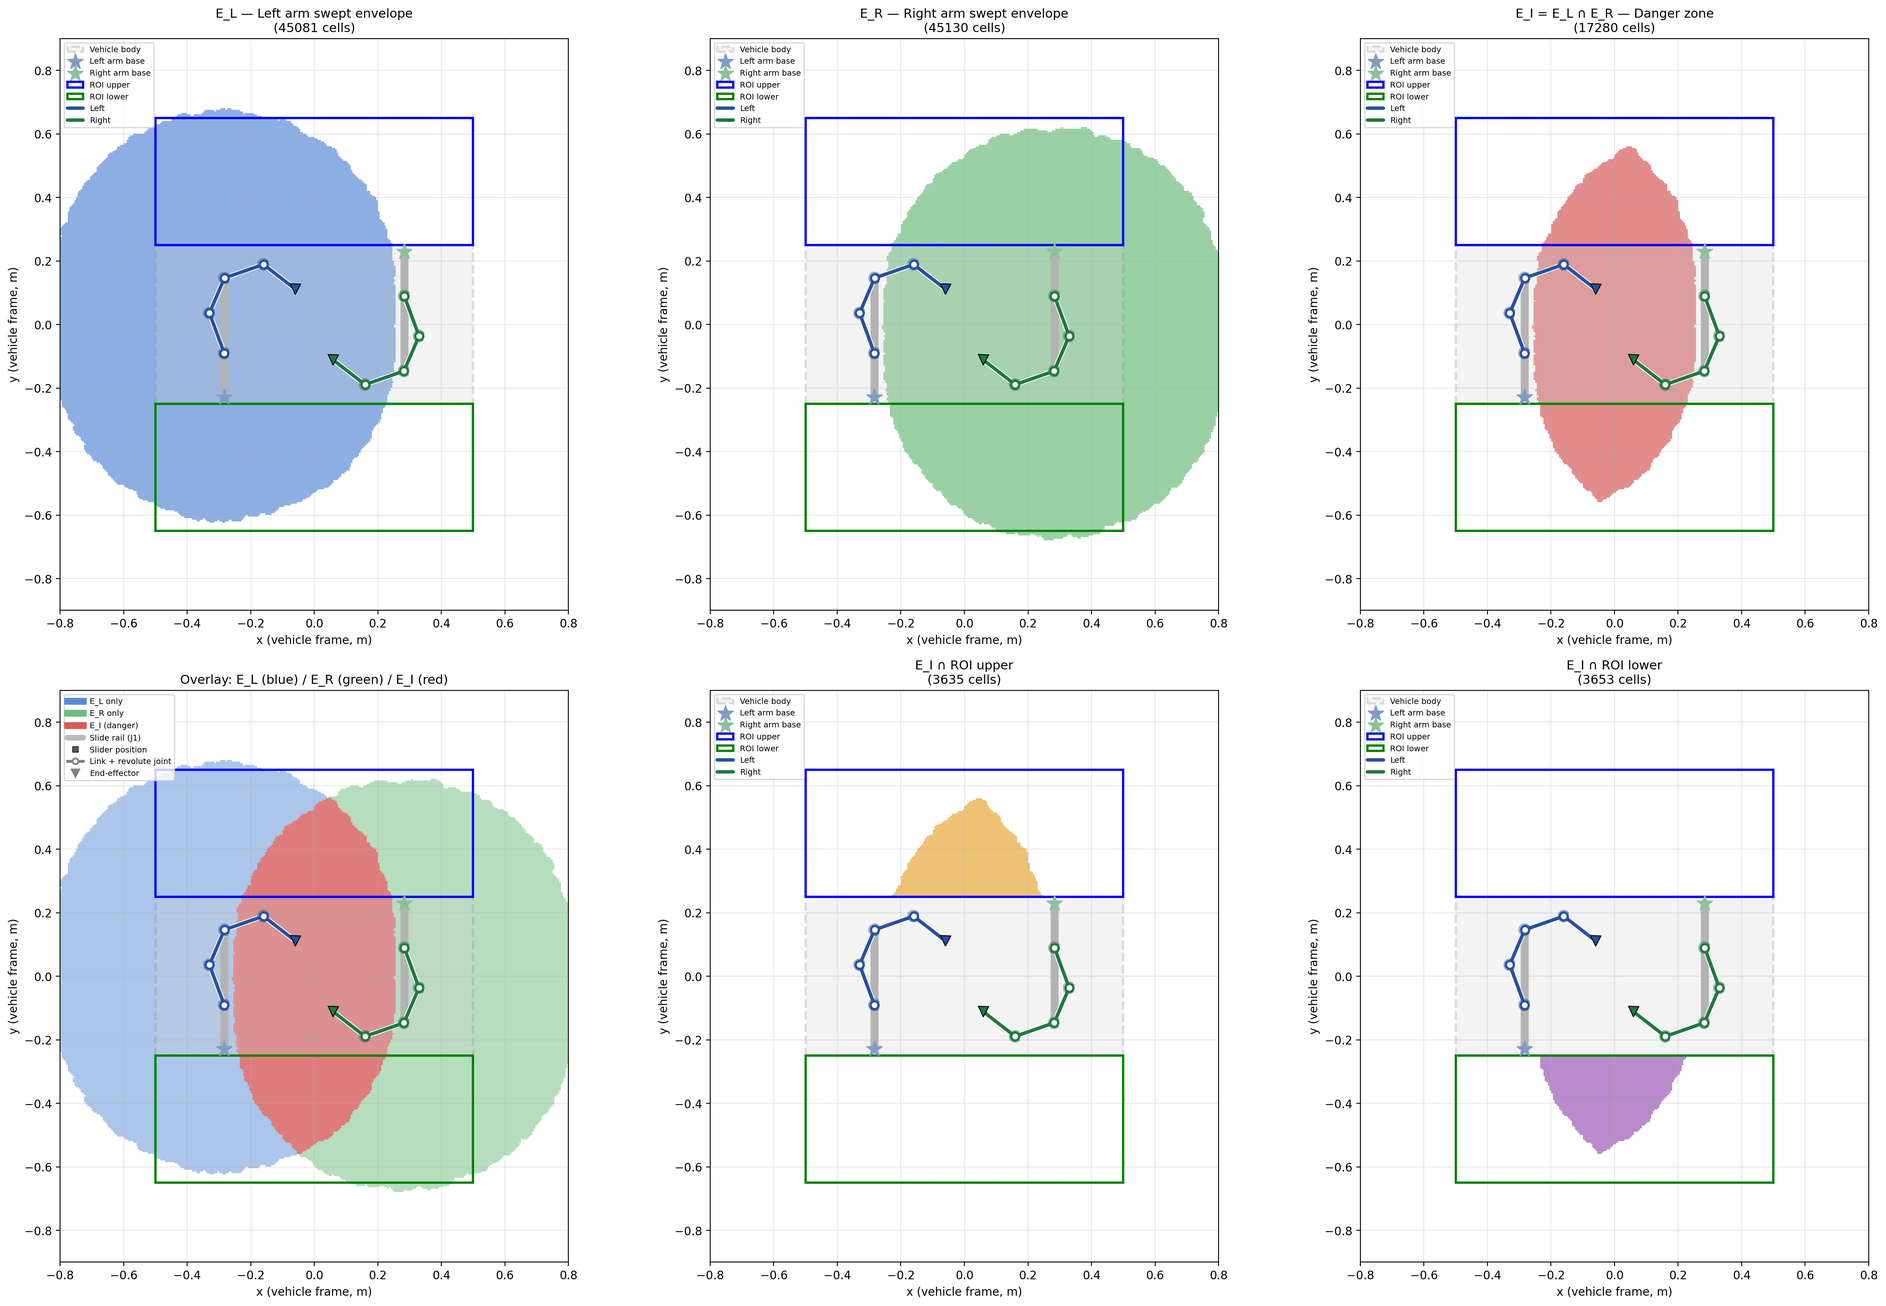
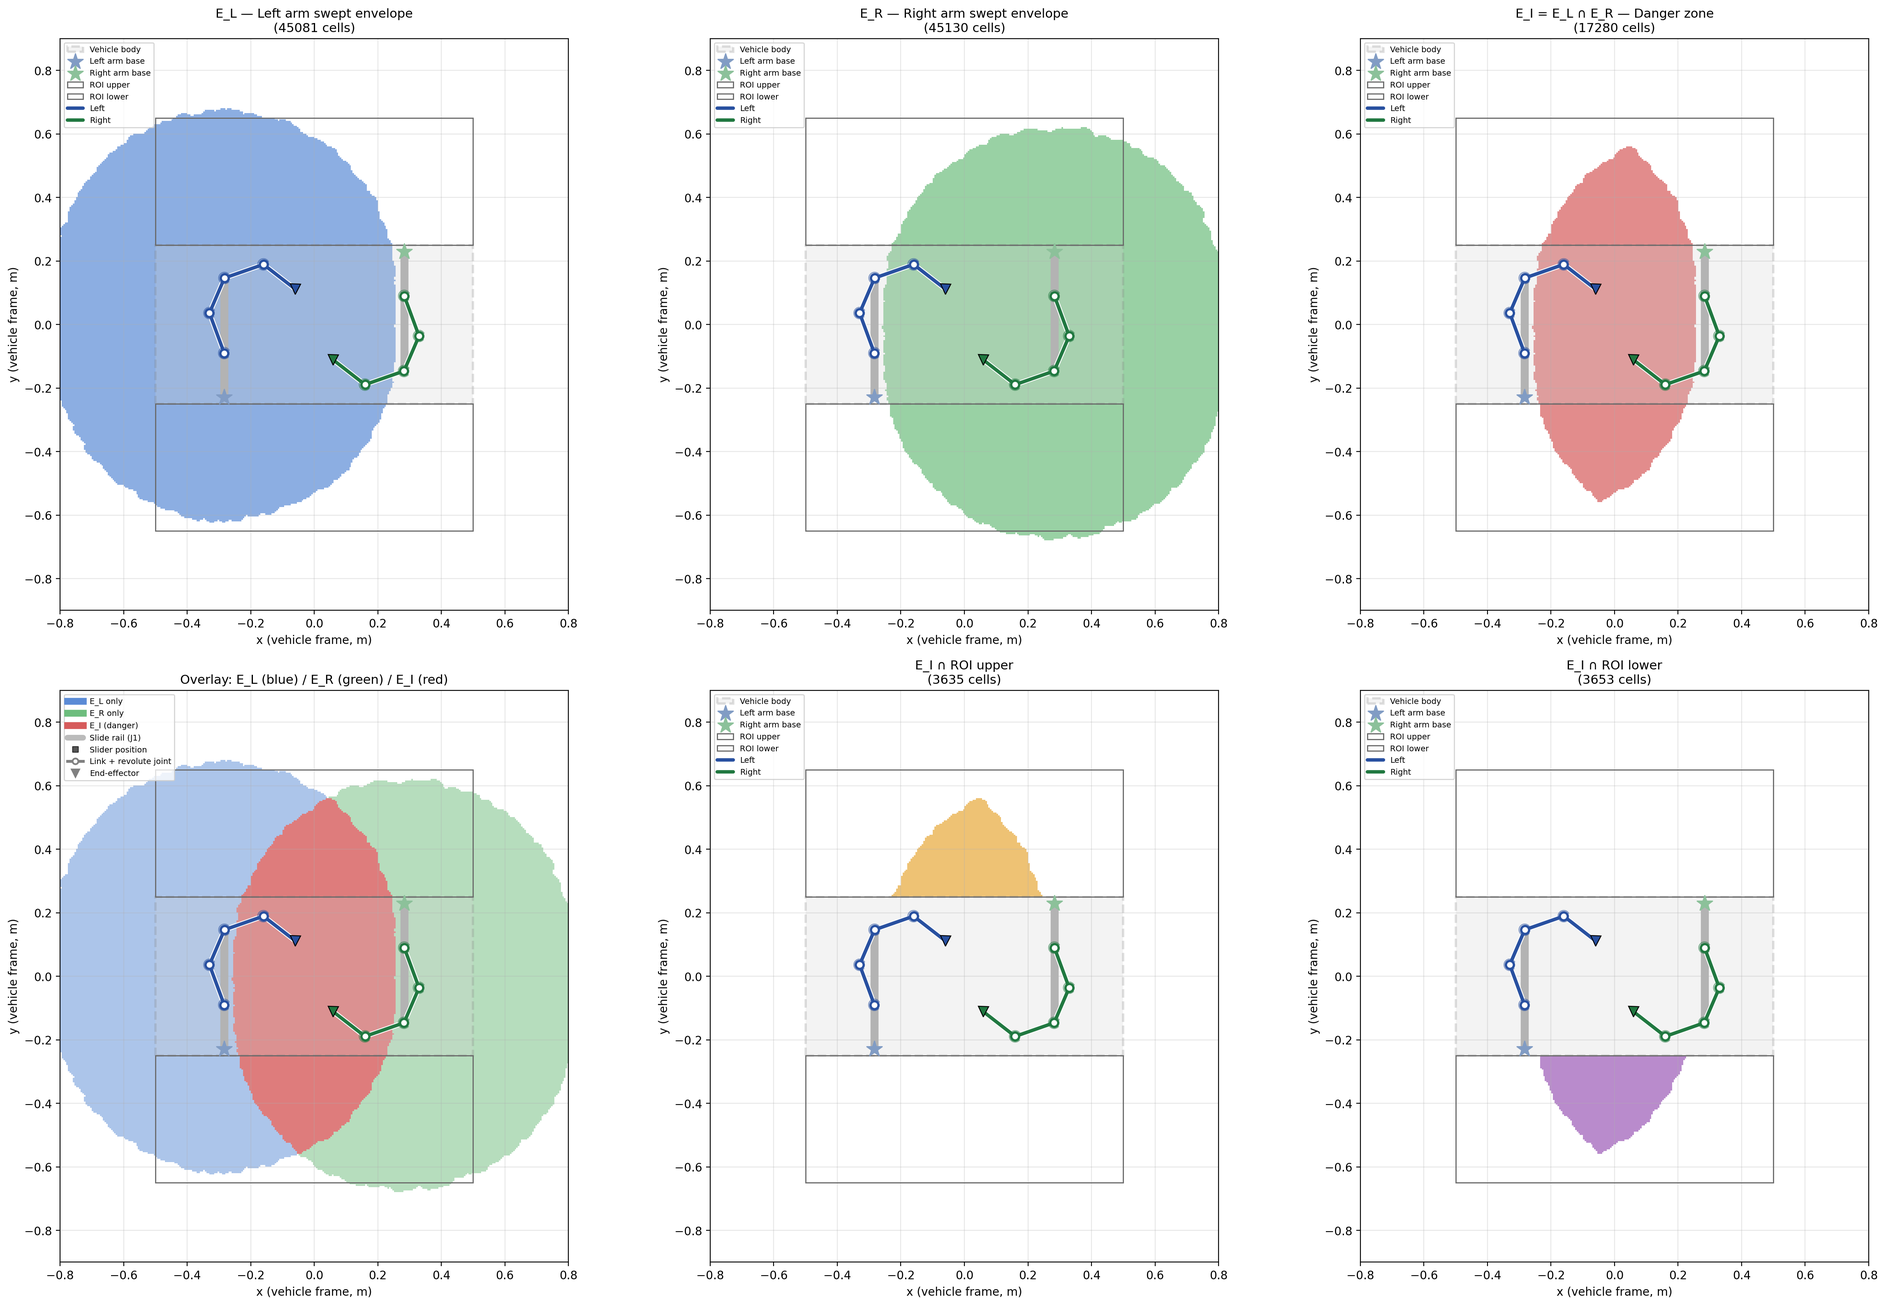
标注IK解数量

diff --git a/roi/build_roi_table_selected_points_cover_first.py b/roi/build_roi_table_selected_points_cover_first.py
@@ -1,28 +1,13 @@
 #!/usr/bin/env python3
 """
-build_roi_table_selected_points_cover_first.py
+build_roi_table_selected_points_cover_first_v2.py
 
-覆盖优先版本：
-1) 固定点集：
-   y = ±0.3, ±0.4, ±0.5
-   x = 0, ±0.1, ±0.2, ±0.3, ±0.4
-   z = 0.56
-
-2) 搜索策略：
-   - 先广覆盖 yaw（均匀覆盖整圈），避免只在局部附近打转
-   - 先广覆盖 seed（home / 手工极端 seed / 关节上下限全局随机 seed）
-   - 仅在已经找到成功 yaw 后，才对其附近做局部加密（可选）
-
-3) safe 优先规则：
-   - 若点本身落在对应 danger mask 中，则跳过 safe 搜索，直接走 fallback
-   - 若点本身不在对应 danger mask 中，则优先保留“终点全身姿态通过 safe 检查”的 IK 解
-   - 若一个 safe 终点也找不到，则再保留 fallback IK 解
-
-4) 输出：
-   - roi/results/roi_table_selected_points.pkl
-   - roi/results/selected_points_reachability.png
-
-不再生成 dual_arm_cost_selected_points.pkl
+在 cover_first 版本基础上新增：
+1) 若 roi/results/roi_table_selected_points.pkl 已存在，则默认不重复求解，直接读取并重画图
+2) 图中标注每个点左右臂的 safe/fallback 解数量：
+   - 左臂: L s/f
+   - 右臂: R s/f
+3) 保留 --force-regenerate，可强制重新求解
 """
 import os
 import sys
@@ -46,7 +31,6 @@ from build_roi_table import (
     load_base_transforms_from_urdf,
     pose_xyz_yaw_to_T,
 )
-
 from compute_danger_zone import URDFArmChain
 
 try:
@@ -58,24 +42,23 @@ except Exception as e:
 
 def build_parser():
     p = argparse.ArgumentParser()
-    p.add_argument("--timeout", type=float, default=0.15)
+    p.add_argument("--timeout", type=float, default=0.035)
     p.add_argument("--dist-eps", type=float, default=0.001)
     p.add_argument("--yaw-min", type=float, default=-math.pi)
-    p.add_argument("--yaw-max", type=float, default= math.pi)
-    p.add_argument("--global-yaw-count", type=int, default=25, help="第一阶段全局均匀覆盖的 yaw 数")
-    p.add_argument("--local-yaw-delta", type=float, default=0.12, help="第二阶段局部细化的 yaw 偏移")
-    p.add_argument("--enable-local-refine", action="store_true", help="对成功 yaw 附近再做局部细化")
-    p.add_argument("--n-global-random-seeds", type=int, default=48, help="从 joint limits 全局均匀随机采样的 seed 数")
-    p.add_argument("--n-home-perturb-seeds", type=int, default=24, help="围绕 q_home 的大扰动 seed 数")
-    p.add_argument("--max-attempts-per-yaw", type=int, default=64)
-    p.add_argument("--max-solutions-per-yaw", type=int, default=12)
-    p.add_argument("--max-safe-solutions", type=int, default=24)
+    p.add_argument("--yaw-max", type=float, default=math.pi)
+    p.add_argument("--global-yaw-count", type=int, default=17)
+    p.add_argument("--local-yaw-delta", type=float, default=0.12)
+    p.add_argument("--enable-local-refine", action="store_true")
+    p.add_argument("--n-global-random-seeds", type=int, default=8)
+    p.add_argument("--n-home-perturb-seeds", type=int, default=4)
+    p.add_argument("--max-attempts-per-yaw", type=int, default=12)
+    p.add_argument("--max-solutions-per-yaw", type=int, default=3)
+    p.add_argument("--max-safe-solutions", type=int, default=8)
     p.add_argument("--z", type=float, default=0.56)
-
     p.add_argument("--x-values", type=str, default="-0.4,-0.3,-0.2,-0.1,0.0,0.1,0.2,0.3,0.4")
     p.add_argument("--y-values", type=str, default="-0.5,-0.4,-0.3,0.3,0.4,0.5")
-
     p.add_argument("--seed", type=int, default=42)
+    p.add_argument("--force-regenerate", action="store_true")
     p.add_argument("--verbose", action="store_true")
     return p
 
@@ -213,8 +196,7 @@ def clip_to_limits(q, joint_limits):
 
 
 def make_seed_bank(q_home, joint_limits, rng, args):
-    bank = []
-    bank.append(np.asarray(q_home, dtype=float))
+    bank = [np.asarray(q_home, dtype=float)]
     manuals = [
         np.array([0.0, -2.4, 0.23, -2.8, -1.2, -3.0,  0.0]),
         np.array([0.0, -1.2, 0.23, -1.4, -2.4, -2.0,  1.8]),
@@ -226,8 +208,7 @@ def make_seed_bank(q_home, joint_limits, rng, args):
     for q in manuals:
         bank.append(clip_to_limits(q, joint_limits))
     for _ in range(args.n_home_perturb_seeds):
-        q = perturb_seed_large(q_home, rng)
-        bank.append(clip_to_limits(q, joint_limits))
+        bank.append(clip_to_limits(perturb_seed_large(q_home, rng), joint_limits))
     for _ in range(args.n_global_random_seeds):
         bank.append(sample_global_seed(joint_limits, rng))
     out = []
@@ -239,7 +220,7 @@ def make_seed_bank(q_home, joint_limits, rng, args):
 
 def try_yaw_with_seed_bank(solver, T_target, seed_bank, cfg, args):
     sols = []
-    n_attempt = min(args.max_attempts-per-yaw if False else args.max_attempts_per_yaw, len(seed_bank))
+    n_attempt = min(args.max_attempts_per_yaw, len(seed_bank))
     for i in range(n_attempt):
         qinit = np.asarray(seed_bank[i], dtype=float)
         q = solver.ik(
@@ -265,15 +246,10 @@ def solve_for_arm_point_cover_first(solver, chain, T_vehicle_from_arm, p_vehicle
     point_in_danger, safe_mask = point_in_corresponding_danger_mask(p_vehicle, masks)
 
     entry = {
-        "angles": [],
-        "solutions": {},
-        "safe_goal_solutions": [],
-        "fallback_goal_solutions": [],
-        "goal_solutions": [],
-        "goal_solution_meta": [],
-        "best_yaw": None,
-        "best_solution": None,
-        "best_time": None,
+        "angles": [], "solutions": {},
+        "safe_goal_solutions": [], "fallback_goal_solutions": [],
+        "goal_solutions": [], "goal_solution_meta": [],
+        "best_yaw": None, "best_solution": None, "best_time": None,
         "local_xyz": [float(x_l), float(y_l), float(z_l)],
         "point_in_danger": bool(point_in_danger),
         "preferred_mode": None,
@@ -284,18 +260,12 @@ def solve_for_arm_point_cover_first(solver, chain, T_vehicle_from_arm, p_vehicle
 
     seed_bank = make_seed_bank(q_home, joint_limits, rng, args)
     global_yaws = build_global_yaw_list(args)
-
-    safe_bucket = []
-    fallback_bucket = []
-    success_yaws = []
+    safe_bucket, fallback_bucket, success_yaws = [], [], []
 
     def process_yaws(yaw_values, stage_name):
         nonlocal safe_bucket, fallback_bucket, success_yaws
         for yaw in yaw_values:
-            T_target = pose_xyz_yaw_to_T(
-                float(x_l), float(y_l), float(z_l),
-                float(yaw), cfg["ee_target_roll"], cfg["ee_target_pitch"]
-            )
+            T_target = pose_xyz_yaw_to_T(float(x_l), float(y_l), float(z_l), float(yaw), cfg["ee_target_roll"], cfg["ee_target_pitch"])
             sols = try_yaw_with_seed_bank(solver, T_target, seed_bank, cfg, args)
             if args.verbose:
                 print(f"      [{stage_name}] yaw={yaw:.3f} -> {len(sols)} sols", flush=True)
@@ -323,54 +293,56 @@ def solve_for_arm_point_cover_first(solver, chain, T_vehicle_from_arm, p_vehicle
 
     safe_bucket = dedup_meta(safe_bucket)
     fallback_bucket = dedup_meta(fallback_bucket)
-
     entry["safe_goal_solutions"] = [b["q"] for b in safe_bucket[:args.max_safe_solutions]]
     entry["fallback_goal_solutions"] = [b["q"] for b in fallback_bucket]
     entry["n_safe_goal_solutions"] = len(entry["safe_goal_solutions"])
     entry["n_fallback_goal_solutions"] = len(entry["fallback_goal_solutions"])
 
-    if len(entry["safe_goal_solutions"]) > 0:
+    if entry["n_safe_goal_solutions"] > 0:
         final_bucket = safe_bucket[:args.max_safe_solutions]
         entry["preferred_mode"] = "safe"
-    elif len(entry["fallback_goal_solutions"]) > 0:
+    elif entry["n_fallback_goal_solutions"] > 0:
         final_bucket = fallback_bucket
         entry["preferred_mode"] = "fallback"
     else:
         final_bucket = []
         entry["preferred_mode"] = "none"
 
-    by_yaw = {}
-    best_time = None
-    best_q = None
-    best_yaw = None
-    final_goals = []
-
+    by_yaw, best_time, best_q, best_yaw, final_goals = {}, None, None, None, []
     for item in final_bucket:
         yaw = float(item["yaw"])
         q = np.asarray(item["q"], dtype=float)
-        yk = angle_key(yaw)
-        by_yaw.setdefault(yk, [])
-        by_yaw[yk].append(q.tolist())
+        by_yaw.setdefault(angle_key(yaw), []).append(q.tolist())
         final_goals.append(q.tolist())
         t = motion_time(q_home, q, joint_speed=cfg["joint_speed"])
         if best_time is None or t < best_time:
-            best_time = float(t)
-            best_q = q.copy()
-            best_yaw = yaw
+            best_time, best_q, best_yaw = float(t), q.copy(), yaw
 
     entry["solutions"] = by_yaw
     entry["angles"] = sorted(unique_list([float(item["yaw"]) for item in final_bucket]))
     entry["goal_solution_meta"] = [{"yaw": float(item["yaw"]), "q": item["q"]} for item in final_bucket]
     entry["goal_solutions"] = [q.tolist() for q in dedup_solutions(final_goals)] if final_goals else []
     entry["n_goal_solutions"] = len(entry["goal_solutions"])
-
     if best_q is not None:
         entry["best_solution"] = best_q.tolist()
         entry["best_yaw"] = best_yaw
         entry["best_time"] = best_time
         entry["classification"] = "reachable"
-
     return entry
+
+
+def annotate_counts(ax, data, which="combined"):
+    for item in data.values():
+        x, y, _ = item["vehicle_xyz"]
+        ls = int(item["left"].get("n_safe_goal_solutions", 0))
+        lf = int(item["left"].get("n_fallback_goal_solutions", 0))
+        rs = int(item["right"].get("n_safe_goal_solutions", 0))
+        rf = int(item["right"].get("n_fallback_goal_solutions", 0))
+        if which in ("left", "combined"):
+            ax.text(x + 0.008, y + 0.012, f"L {ls}/{lf}", fontsize=6, color="#486A9A")
+        if which in ("right", "combined"):
+            dy = -0.012 if which == "combined" else 0.012
+            ax.text(x + 0.008, y + dy, f"R {rs}/{rf}", fontsize=6, color="#4E8B61")
 
 
 def plot_reachability(roi_payload, out_png, T_left, T_right):
@@ -379,7 +351,6 @@ def plot_reachability(roi_payload, out_png, T_left, T_right):
     left_groups = {"unreachable": [], "reachable": []}
     right_groups = {"unreachable": [], "reachable": []}
     summary_groups = {"both_unreachable": [], "left_only": [], "right_only": [], "both_reachable": []}
-
     for _, item in data.items():
         x, y, z = item["vehicle_xyz"]
         if not np.isclose(z, target_z, atol=1e-6):
@@ -388,37 +359,31 @@ def plot_reachability(roi_payload, out_png, T_left, T_right):
         cls_right = item["right"]["classification"]
         left_groups[cls_left].append((x, y))
         right_groups[cls_right].append((x, y))
-        left_ok = cls_left == "reachable"
-        right_ok = cls_right == "reachable"
-        if left_ok and right_ok:
+        l = cls_left == "reachable"
+        r = cls_right == "reachable"
+        if l and r:
             summary_groups["both_reachable"].append((x, y))
-        elif left_ok and not right_ok:
+        elif l and not r:
             summary_groups["left_only"].append((x, y))
-        elif (not left_ok) and right_ok:
+        elif (not l) and r:
             summary_groups["right_only"].append((x, y))
         else:
             summary_groups["both_unreachable"].append((x, y))
 
-    fig, axes = plt.subplots(1, 3, figsize=(18, 6))
+    fig, axes = plt.subplots(1, 3, figsize=(20, 7))
 
     def setup_ax(ax, title):
-        veh = patches.Rectangle((-0.50, -0.25), 1.0, 0.50, linewidth=2, edgecolor="gray",
-                                facecolor="lightgray", alpha=0.25, linestyle="--")
+        veh = patches.Rectangle((-0.50, -0.25), 1.0, 0.50, linewidth=2, edgecolor="gray", facecolor="lightgray", alpha=0.25, linestyle="--")
         ax.add_patch(veh)
         ax.scatter(T_left[0, 3], T_left[1, 3], c="#819CC4", marker="*", s=160, zorder=5, label="Left arm base")
         ax.scatter(T_right[0, 3], T_right[1, 3], c="#8CC19A", marker="*", s=160, zorder=5, label="Right arm base")
-        for roi, clr in [
-            ({"x_min": -0.5, "x_max": 0.5, "y_min": 0.25, "y_max": 0.65}, "blue"),
-            ({"x_min": -0.5, "x_max": 0.5, "y_min": -0.65, "y_max": -0.25}, "green"),
-        ]:
-            ax.add_patch(patches.Rectangle((roi["x_min"], roi["y_min"]),
-                                           roi["x_max"] - roi["x_min"], roi["y_max"] - roi["y_min"],
-                                           linewidth=1.5, edgecolor=clr, facecolor="none"))
+        for roi, clr in [({"x_min": -0.5, "x_max": 0.5, "y_min": 0.25, "y_max": 0.65}, "dimgray"), ({"x_min": -0.5, "x_max": 0.5, "y_min": -0.65, "y_max": -0.25}, "dimgray")]:
+            ax.add_patch(patches.Rectangle((roi["x_min"], roi["y_min"]), roi["x_max"] - roi["x_min"], roi["y_max"] - roi["y_min"], linewidth=0.8, edgecolor=clr, facecolor="none"))
         ax.set_title(title)
         ax.set_xlabel("x")
         ax.set_ylabel("y")
-        ax.set_xlim(-0.48, 0.48)
-        ax.set_ylim(-0.60, 0.60)
+        ax.set_xlim(-0.52, 0.52)
+        ax.set_ylim(-0.64, 0.64)
         ax.set_aspect("equal")
         ax.grid(True, alpha=0.3)
 
@@ -426,14 +391,16 @@ def plot_reachability(roi_payload, out_png, T_left, T_right):
     for cls, pts in left_groups.items():
         if pts:
             pts = np.asarray(pts)
-            axes[0].scatter(pts[:, 0], pts[:, 1], s=30, c={"unreachable":"#BB5F76","reachable":"#AFC4E4"}[cls], label=cls)
+            axes[0].scatter(pts[:, 0], pts[:, 1], s=34, c={"unreachable":"#BB5F76","reachable":"#AFC4E4"}[cls], label=cls)
+    annotate_counts(axes[0], data, which="left")
     axes[0].legend(loc="center left", fontsize=8)
 
     setup_ax(axes[1], f"Right-arm IK coverage @ z={target_z:.2f}")
     for cls, pts in right_groups.items():
         if pts:
             pts = np.asarray(pts)
-            axes[1].scatter(pts[:, 0], pts[:, 1], s=30, c={"unreachable":"#BB5F76","reachable":"#BEE4C8"}[cls], label=cls)
+            axes[1].scatter(pts[:, 0], pts[:, 1], s=34, c={"unreachable":"#BB5F76","reachable":"#BEE4C8"}[cls], label=cls)
+    annotate_counts(axes[1], data, which="right")
     axes[1].legend(loc="center left", fontsize=8)
 
     setup_ax(axes[2], f"Combined reachability @ z={target_z:.2f}")
@@ -441,18 +408,29 @@ def plot_reachability(roi_payload, out_png, T_left, T_right):
     for cls, pts in summary_groups.items():
         if pts:
             pts = np.asarray(pts)
-            axes[2].scatter(pts[:, 0], pts[:, 1], s=30, c=cmap[cls], label=cls)
+            axes[2].scatter(pts[:, 0], pts[:, 1], s=34, c=cmap[cls], label=cls)
+    annotate_counts(axes[2], data, which="combined")
     axes[2].legend(loc="center left", fontsize=8)
 
     fig.tight_layout()
     os.makedirs(os.path.dirname(out_png), exist_ok=True)
-    fig.savefig(out_png, dpi=250, bbox_inches="tight")
+    fig.savefig(out_png, dpi=260, bbox_inches="tight")
     print(f"Saved figure to {out_png}", flush=True)
+
+
+def summarize(payload):
+    left_reach = right_reach = dual_reach = 0
+    for item in payload["data"].values():
+        l = item["left"]["classification"] == "reachable"
+        r = item["right"]["classification"] == "reachable"
+        left_reach += int(l)
+        right_reach += int(r)
+        dual_reach += int(l and r)
+    return {"left_reachable": left_reach, "right_reachable": right_reach, "dual_reachable": dual_reach}
 
 
 def main():
     args = build_parser().parse_args()
-    rng = np.random.default_rng(args.seed)
     cfg = dict(BASE_CONFIG)
     cfg["timeout"] = args.timeout
     urdf_path = cfg["urdf_path"]
@@ -461,18 +439,28 @@ def main():
     roi_table_file = os.path.join(out_dir, "roi_table_selected_points.pkl")
     fig_file = os.path.join(out_dir, "selected_points_reachability.png")
     danger_npz = os.path.join(out_dir, "danger_zone_data.npz")
+    T_left, T_right = load_base_transforms_from_urdf(urdf_path, cfg["left_base_joint"], cfg["right_base_joint"])
+
+    if os.path.exists(roi_table_file) and not args.force_regenerate:
+        with open(roi_table_file, "rb") as f:
+            payload = pickle.load(f)
+        print(f"[info] existing ROI table found, skip solving: {roi_table_file}", flush=True)
+        print(summarize(payload), flush=True)
+        plot_reachability(payload, fig_file, T_left, T_right)
+        return
+
     if not os.path.exists(danger_npz):
         raise FileNotFoundError(f"danger zone file not found: {danger_npz}")
+
+    rng = np.random.default_rng(args.seed)
     masks = load_masks(danger_npz)
-    T_left, T_right = load_base_transforms_from_urdf(urdf_path, cfg["left_base_joint"], cfg["right_base_joint"])
     solver = TracIKSolver(urdf_file=urdf_path, base_link=cfg["ik_base_link"], tip_link=cfg["ik_tip_link"], timeout=args.timeout)
     left_chain = URDFArmChain(urdf_path, cfg["left_base_joint"], "left_arm")
     right_chain = URDFArmChain(urdf_path, cfg["right_base_joint"], "right_arm")
     pts, x_values, y_values = selected_points(args)
     print(f"[info] total selected points = {len(pts)}", flush=True)
 
-    payload = {"meta": {"source": "build_roi_table_selected_points_cover_first.py", "z": float(args.z), "x_values": x_values, "y_values": y_values, "args": vars(args)}, "data": {}}
-
+    payload = {"meta": {"source": os.path.basename(__file__), "z": float(args.z), "x_values": x_values, "y_values": y_values, "args": vars(args)}, "data": {}}
     for idx, p in enumerate(pts, start=1):
         key = create_key(*p)
         print(f"[point {idx}/{len(pts)}] {key}", flush=True)
@@ -486,14 +474,7 @@ def main():
     with open(roi_table_file, "wb") as f:
         pickle.dump(payload, f, protocol=4)
     print(f"Saved ROI table to {roi_table_file}", flush=True)
-
-    left_reach = right_reach = dual_reach = 0
-    for item in payload["data"].values():
-        l = item["left"]["classification"] == "reachable"
-        r = item["right"]["classification"] == "reachable"
-        left_reach += int(l); right_reach += int(r); dual_reach += int(l and r)
-    print({"left_reachable": left_reach, "right_reachable": right_reach, "dual_reachable": dual_reach}, flush=True)
-
+    print(summarize(payload), flush=True)
     plot_reachability(payload, fig_file, T_left, T_right)
 
 

diff --git a/roi/compute_danger_zone.py b/roi/compute_danger_zone.py
@@ -410,14 +410,14 @@ def _add_vehicle_and_bases(ax, T_left, T_right):
 def _add_roi_rects(ax):
     """Draw the ROI upper / lower rectangles."""
     for roi, clr, lbl in [
-        (ROI_UPPER, "blue", "ROI upper"),
-        (ROI_LOWER, "green", "ROI lower"),
+        (ROI_UPPER, "dimgray", "ROI upper"),
+        (ROI_LOWER, "dimgray", "ROI lower"),
     ]:
         r = patches.Rectangle(
             (roi["x_min"], roi["y_min"]),
             roi["x_max"] - roi["x_min"],
             roi["y_max"] - roi["y_min"],
-            linewidth=2, edgecolor=clr, facecolor="none",
+            linewidth=1, edgecolor=clr, facecolor="none",
             linestyle="-", label=lbl, zorder=4,
         )
         ax.add_patch(r)
